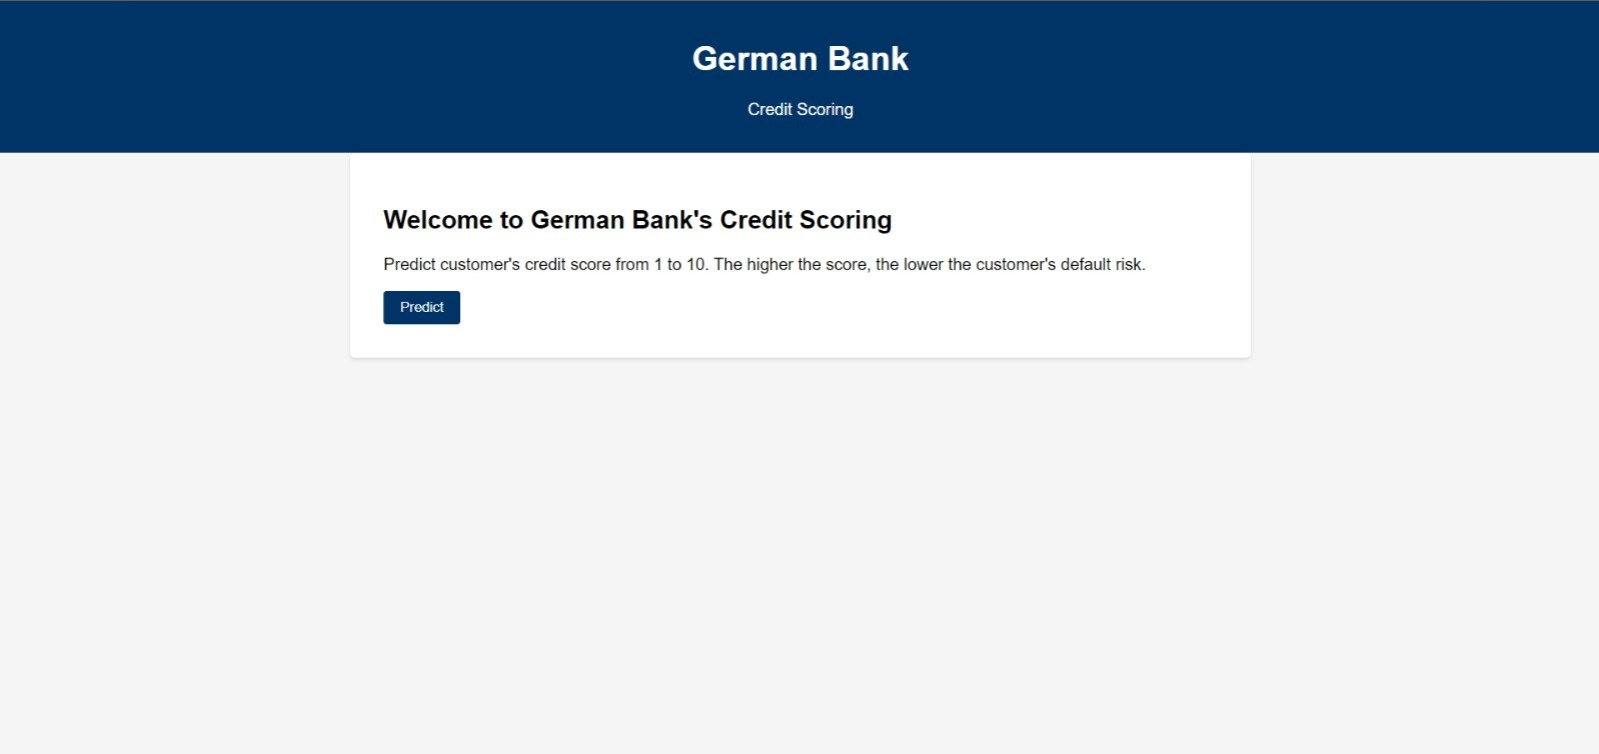
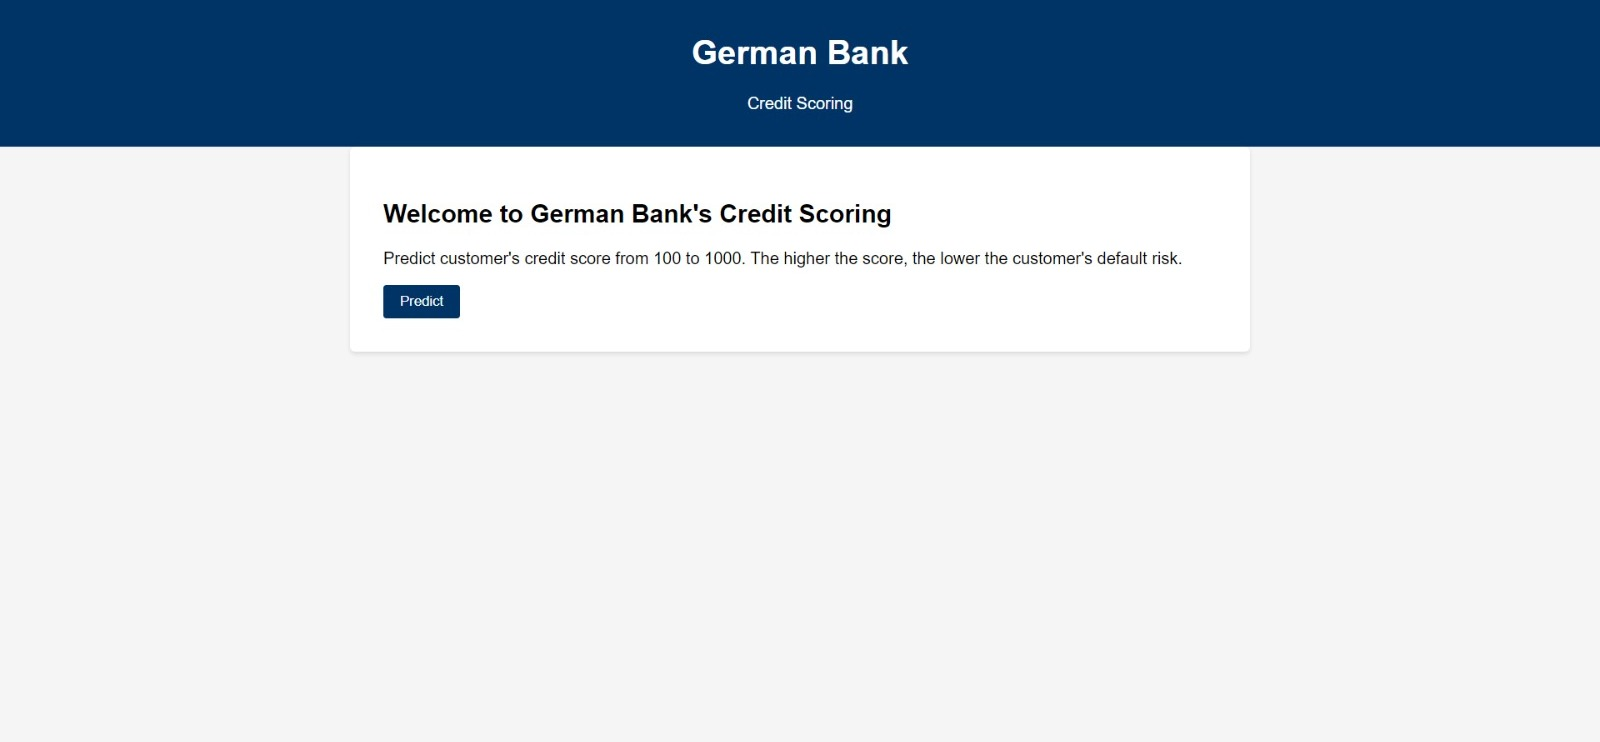
Finished project and web app

diff --git a/templates/index.html b/templates/index.html
@@ -51,7 +51,7 @@
     </header>
     <div class="container">
         <h2>Welcome to German Bank's Credit Scoring</h2>
-        <p>Predict customer's credit score from 1 to 10. The higher the score, the lower the customer's default risk.</p>
+        <p>Predict customer's credit score from 100 to 1000. The higher the score, the lower the customer's default risk.</p>
         <button class="predict-button" onclick="window.location.href='/predictdata'">Predict</button>
     </div>
 </body>

diff --git a/src/pipeline/predict_pipeline.py b/src/pipeline/predict_pipeline.py
@@ -89,25 +89,25 @@ class PredictPipeline:
             default_proba = model.predict_proba(prepared_data)[:, 1]
 
             if default_proba >= 0.0 and default_proba < 0.1:
-                credit_score = "Customer's credit score: 10"
+                credit_score = "Customer's credit score: 1000"
             elif default_proba >= 0.1 and default_proba < 0.2:
-                credit_score = "Customer's credit score: 9"
+                credit_score = "Customer's credit score: 900"
             elif default_proba >= 0.2 and default_proba < 0.3:
-                credit_score = "Customer's credit score: 8"
+                credit_score = "Customer's credit score: 800"
             elif default_proba >= 0.3 and default_proba < 0.4:
-                credit_score = "Customer's credit score: 7"
+                credit_score = "Customer's credit score: 700"
             elif default_proba >= 0.4 and default_proba < 0.5:
-                credit_score = "Customer's credit score: 6"
+                credit_score = "Customer's credit score: 600"
             elif default_proba >= 0.5 and default_proba < 0.6:
-                credit_score = "Customer's credit score: 5"
+                credit_score = "Customer's credit score: 500"
             elif default_proba >= 0.6 and default_proba < 0.7:
-                credit_score = "Customer's credit score: 4"
+                credit_score = "Customer's credit score: 400"
             elif default_proba >= 0.7 and default_proba < 0.8:
-                credit_score = "Customer's credit score: 3"
+                credit_score = "Customer's credit score: 300"
             elif default_proba >= 0.8 and default_proba < 0.9:
-                credit_score = "Customer's credit score: 2"
+                credit_score = "Customer's credit score: 200"
             elif default_proba >= 0.9 and default_proba < 1:
-                credit_score = "Customer's credit score: 1"
+                credit_score = "Customer's credit score: 100"
             
             logging.info('Default probability successfully estimated. Credit score successfully assigned.')
 

diff --git a/README.md b/README.md
@@ -103,7 +103,7 @@ Examining the weight of evidence and the default probability, it becomes evident
 <img src="images/default_percentages_by_range.png">
 
 # 7. Financial results
-I estimated the financial outcome to assess whether the project is worthwhile. Although I did not have access to specific data to obtain the exact financial gain, I assumed a loan charge of 3% per month. Then, I calculated the Return on Investment (ROI) before and after changing the bank's credit policy while building my model. To do this, I computed the expected revenue from non-defaulters' loans, the expected loss from defaulters' loans, and the total credit amount lent. Finally, after extending credit only to customers with a credit score of 6 or higher, the ROI increased from 9.55% to 42.64%. This illustrates the power of machine learning and data science. Consequently, my project is worthwhile and effectively addresses the business problem! An important observation is that this estimation was made using only the test set because the probabilities in the training set would be much more accurate, which does not represent the real production environment performance.
+I estimated the financial outcome to assess whether the project is worthwhile. Although I did not have access to specific data to obtain the exact financial gain, I assumed a loan charge of 3% per month. Then, I calculated the Return on Investment (ROI) before and after changing the bank's credit policy while building my model. To do this, I computed the expected revenue from non-defaulters' loans, the expected loss from defaulters' loans, and the total credit amount lent. Finally, after extending credit only to customers with a credit score of 600 or higher, the ROI increased from 9.55% to 42.64%. This illustrates the power of machine learning and data science. Consequently, my project is worthwhile and effectively addresses the business problem! An important observation is that this estimation was made using only the test set because the probabilities in the training set would be much more accurate, which does not represent the real production environment performance.
 
 # 8. Web app and next steps.
 I developed a Flask web app that allows us to obtain a credit score for any potential customer by providing input feature information. For the next steps, I will be focused on deploying this app on a cloud platform like AWS. I've already defined a file containing Elastic Beanstalk configuration, .ebextensions/config.py. Anyway, in the next topic, I will describe how you can run this project on your local machine.
